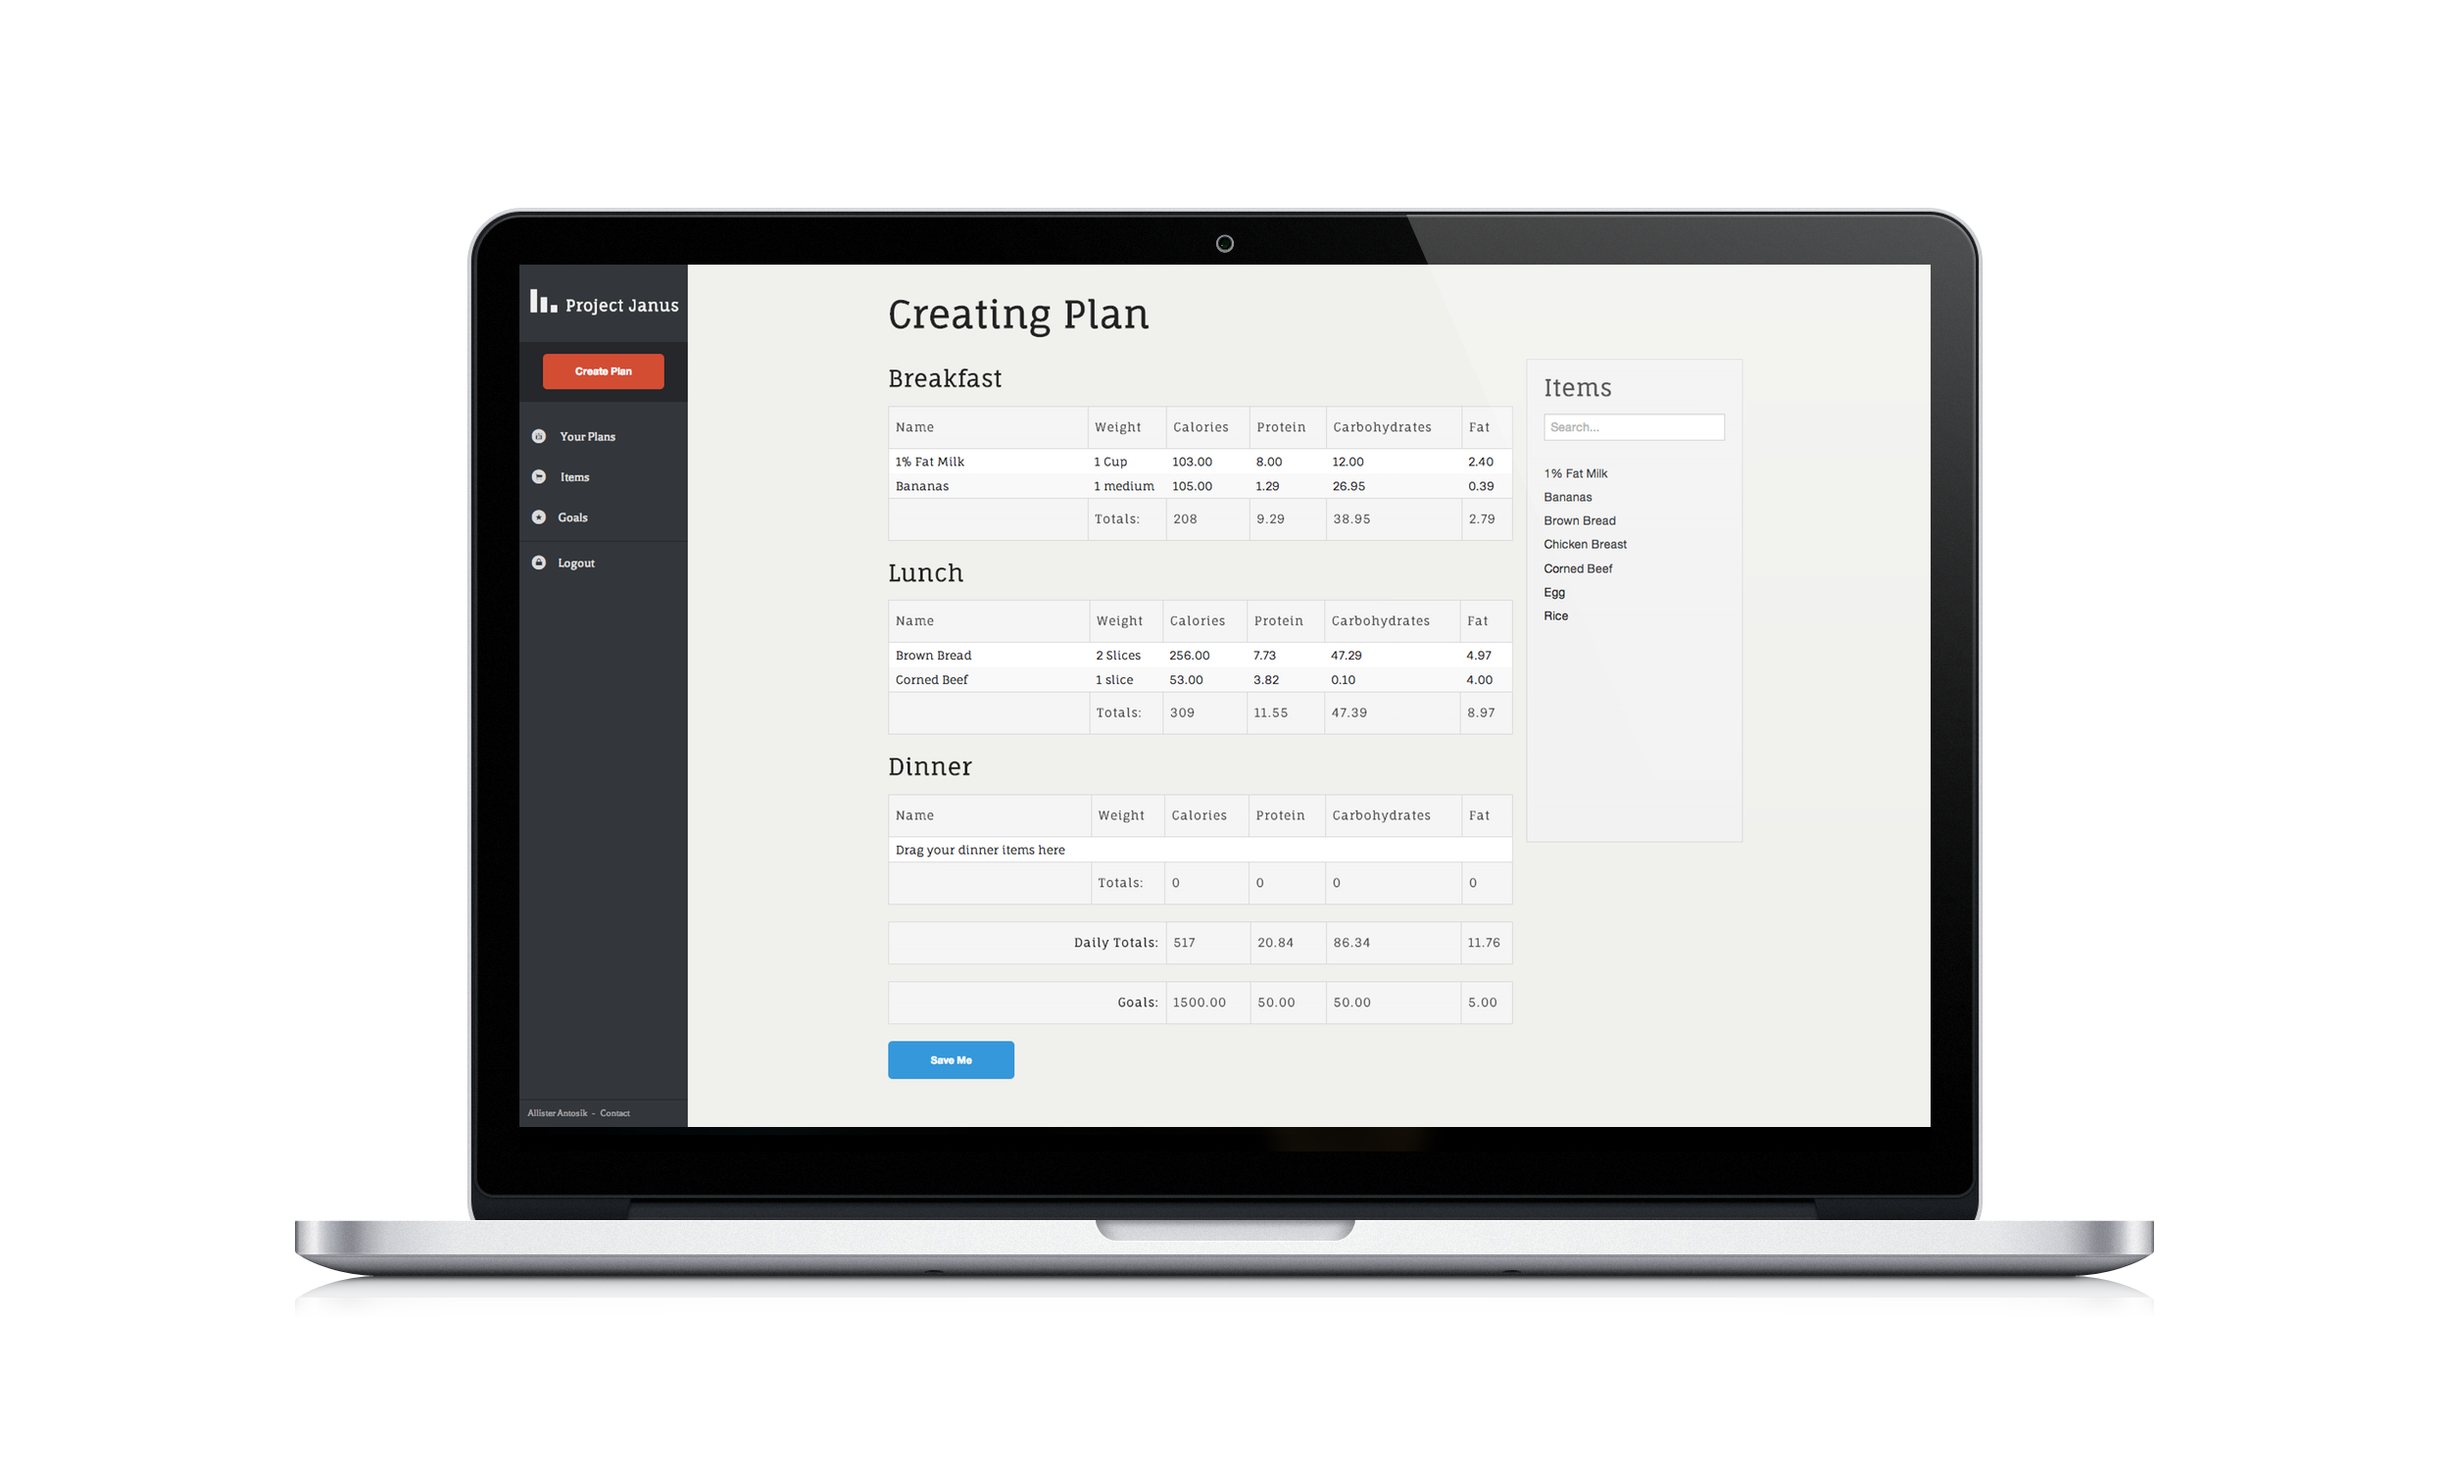
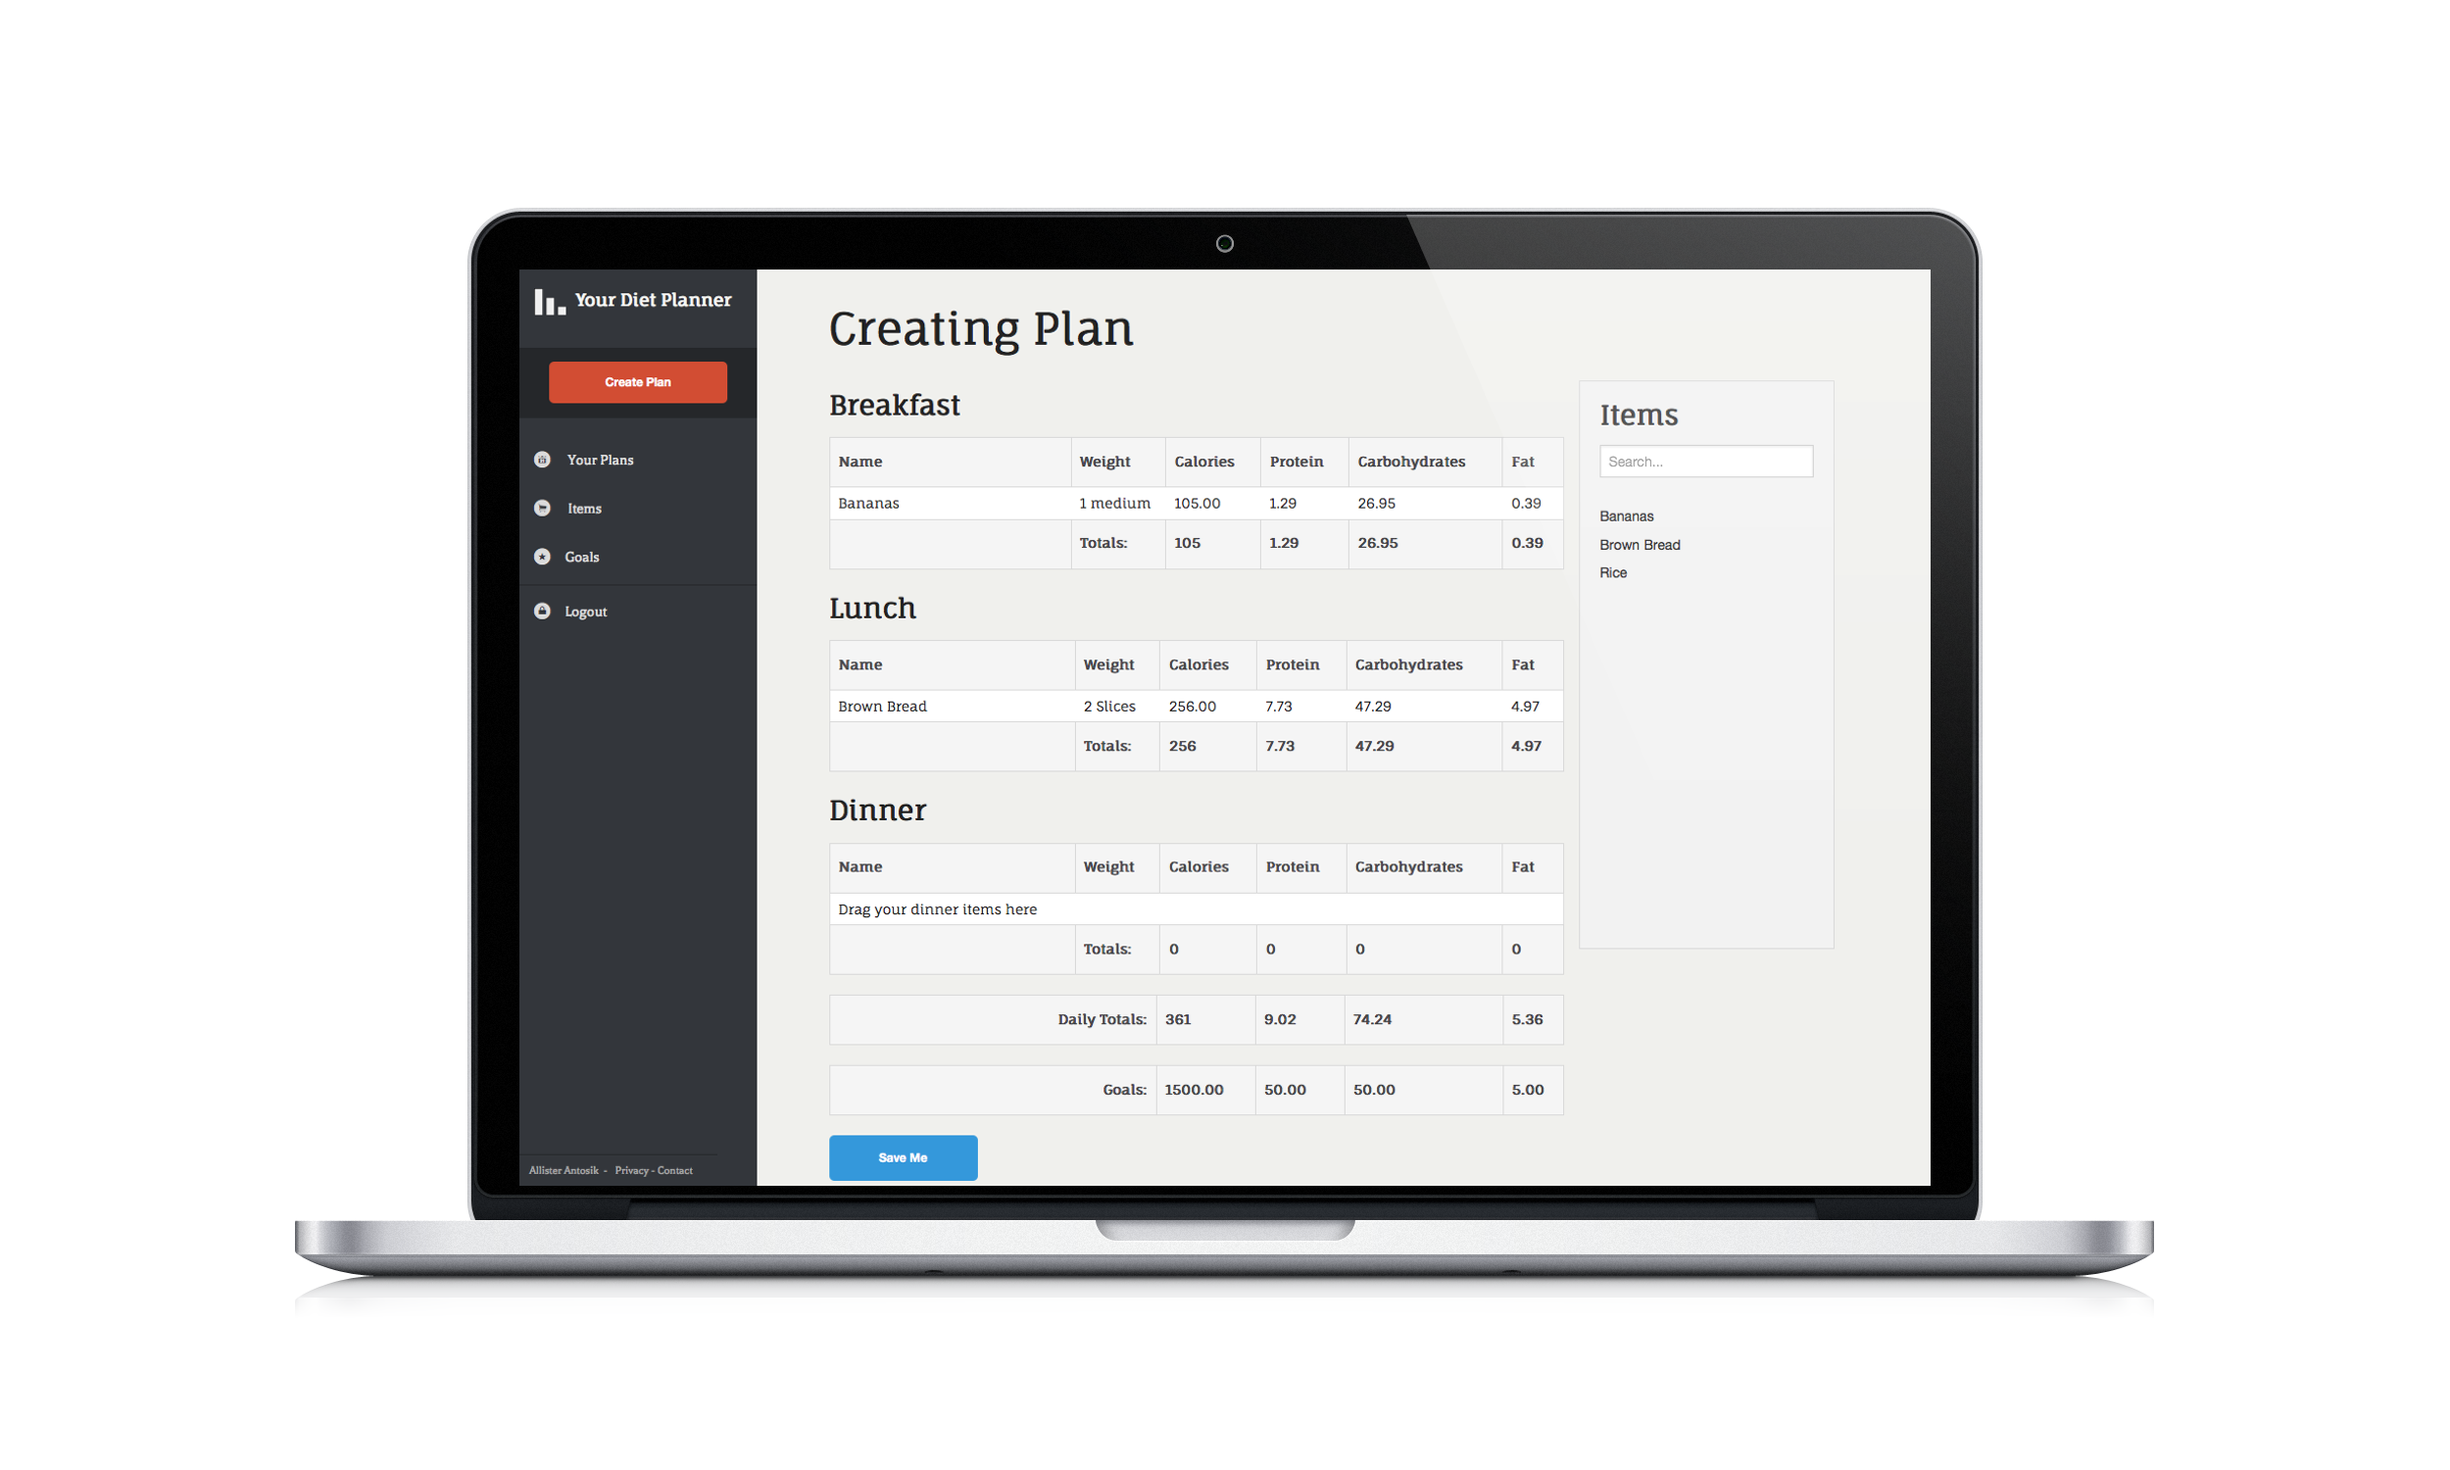
Rebranded application to Your Diet Planner

diff --git a/public/css/style.css b/public/css/style.css
@@ -27,18 +27,22 @@
     position: fixed;
     background: #33363b;
     min-height:100%;
-    width: 200px;
+    width: 240px;
 }
-    #logo{text-align: right}
+    #logo{padding-top: 10px;}
     #logo a{
         color: #f4f4f1;
-        font-size: 18px !important;
-        padding: 10px;
+        font-size: 17px !important;
+        float:left;
         height: 60px;
         font-family: 'Fauna One', serif;
     }
+    #logo span{
+        margin-left: 10px;
+    }
     #logo a img{
-        margin: 0 10px 13px 0;
+        float:left;
+        margin-left: 15px
     }
 
     #createBtn{
@@ -52,7 +56,7 @@
             width: 90%;
             font-size: 12px;
             color: #fff;
-            border: 0;  
+            border: 0;
             -webkit-border-radius: 5px;
             -moz-border-radius: 5px;
             border-radius: 5px;
@@ -131,7 +135,7 @@ h1, h2, h3{
     font-size: 12px;
     font-weight: bold;
     color: #fff;
-    border: 0;  
+    border: 0;
     -webkit-border-radius: 5px;
     -moz-border-radius: 5px;
     border-radius: 5px;
@@ -304,11 +308,11 @@ h1, h2, h3{
     }
 
 .arrow-up {
-    width: 0; 
-    height: 0; 
+    width: 0;
+    height: 0;
     border-left: 10px solid transparent;
     border-right: 10px solid transparent;
-    
+
     border-top: 10px solid rgba(0, 0, 0, 0.2);
     float:right;
     margin-right:105px;

diff --git a/app/views/plan/share/reddit.blade.php b/app/views/plan/share/reddit.blade.php
@@ -2,18 +2,18 @@
 :-----------|:-----------|:------------|:------------|:------------|:------------|:------------
 <?php $b = 0; ?>
 @foreach($breakfasts as $breakfast)
-| <?php if($b == 0) echo "**Breakfast**"; ?> | {{ $breakfast->name }} | {{ $breakfast->weight }} | {{ $breakfast->calories }} | {{ $breakfast->protein }} | {{ $breakfast->carbohydrates }} | {{ $breakfast->fat }}<?php $b++; ?> 
+| <?php if($b == 0) echo "**Breakfast**"; ?> | {{ $breakfast->name }} | {{ $breakfast->weight }} | {{ $breakfast->calories }} | {{ $breakfast->protein }} | {{ $breakfast->carbohydrates }} | {{ $breakfast->fat }}<?php $b++; ?>
 @endforeach
-|  |   |  |  |  |  |  
+|  |   |  |  |  |  |
 <?php $l = 0; ?>
 @foreach($lunches as $lunch)
-|<?php if($l == 0) echo "**Lunch**"; ?>| {{ $lunch->name }} | {{ $lunch->weight }} | {{ $lunch->calories }} | {{ $lunch->protein }} | {{ $lunch->carbohydrates }} | {{ $lunch->fat }}<?php $l++; ?> 
+|<?php if($l == 0) echo "**Lunch**"; ?>| {{ $lunch->name }} | {{ $lunch->weight }} | {{ $lunch->calories }} | {{ $lunch->protein }} | {{ $lunch->carbohydrates }} | {{ $lunch->fat }}<?php $l++; ?>
 @endforeach
-|  |   |  |  |  |  |  
+|  |   |  |  |  |  |
 <?php $d = 0; ?>
 @foreach($dinners as $dinner)
-|<?php if($d == 0) echo "**Dinner**"; ?>| {{ $dinner->name }} | {{ $dinner->weight }} | {{ $dinner->calories }} | {{ $dinner->protein }} | {{ $dinner->carbohydrates }} | {{ $dinner->fat }}    <?php $d++; ?>    
+|<?php if($d == 0) echo "**Dinner**"; ?>| {{ $dinner->name }} | {{ $dinner->weight }} | {{ $dinner->calories }} | {{ $dinner->protein }} | {{ $dinner->carbohydrates }} | {{ $dinner->fat }}    <?php $d++; ?>
 @endforeach
-|  |   |  |  |  |  |  
-|**Total**| |  | {{ $plan->calories }} | {{ $plan->protein }} | {{ $plan->carbohydrates }} | {{ $plan->fat }}    <?php $d++; ?>    
-Generated on [Project Janus](http://reddit.com)
+|  |   |  |  |  |  |
+|**Total**| |  | {{ $plan->calories }} | {{ $plan->protein }} | {{ $plan->carbohydrates }} | {{ $plan->fat }}    <?php $d++; ?>
+Generated on [Your Diet Planner](http://yourdietplanner.net)

diff --git a/app/views/homepage.blade.php b/app/views/homepage.blade.php
@@ -24,7 +24,7 @@ Homepage
             <div class="small-9 columns">
                 <h3 class="subheader">Create your own items</h3>
                 <p>
-                    Project Janus doesn't contain a large database of food items; rather you can create your own custom food items filling in it's weight, calories, protein, carbs and fat content. You can then use them on any diet plans you create.
+                    Your Diet Planner doesn't contain a large database of food items; rather you can create your own custom food items filling in it's weight, calories, protein, carbs and fat content. You can then use them on any diet plans you create.
                 </p>
             </div>
         </div>
@@ -56,7 +56,7 @@ Homepage
             <div class="small-9 columns">
                 <h3 class="subheader">Share to the world</h3>
                 <p>
-                    Want to print off your daily plans? Or share with your friends? Project Janus allows you to easily export your plans to PDF format as well as generating valid Reddit markdown or BBCode for forums.
+                    Want to print off your daily plans? Or share with your friends? Your Diet Planner allows you to easily export your plans to PDF format as well as generating valid Reddit markdown or BBCode for forums.
                 </p>
             </div>
         </div>

diff --git a/app/views/master.blade.php b/app/views/master.blade.php
@@ -5,7 +5,7 @@
 <head>
     <meta charset="utf-8" />
     <meta name="viewport" content="width=device-width" />
-    <title>@yield('title') :: Project Janus</title>
+    <title>@yield('title') :: Your Diet Planner</title>
 
     {{ HTML::style('css/normalize.css') }}
     {{ HTML::style('css/foundation.css') }}
@@ -25,7 +25,7 @@
         <ul class="title-area">
             <!-- Title Area -->
             <li class="name">
-                <h1><a href="/"><img src="/img/logo.png" width="32"> Project Janus </a></h1>
+                <h1><a href="/"><img src="/img/logo.png" width="32"> Your Diet Planner </a></h1>
             </li>
             <li class="toggle-topbar menu-icon"><a href="#"><span>Menu</span></a></li>
         </ul>
@@ -44,7 +44,9 @@
     @else
 
     <div class="userNav" style="background">
-        <h1 id="logo"><a href="/"><img src="/img/logo.png" width="32">Project Janus</a></h1>
+        <h1 id="logo"><a href="/"><img src="/img/logo.png" width="32"><span>Your Diet Planner</span></a></h1>
+
+        <div class="clearfix"></div>
 
         <div id="createBtn">
             <form action="/plan/create" method="get">

diff --git a/app/views/plan/pdf.blade.php b/app/views/plan/pdf.blade.php
@@ -186,7 +186,7 @@
         </table>
 
         <page_footer>
-          Created using Project Janus
+          Created using Your Diet Planner
         </page_footer>
 
     </body>
